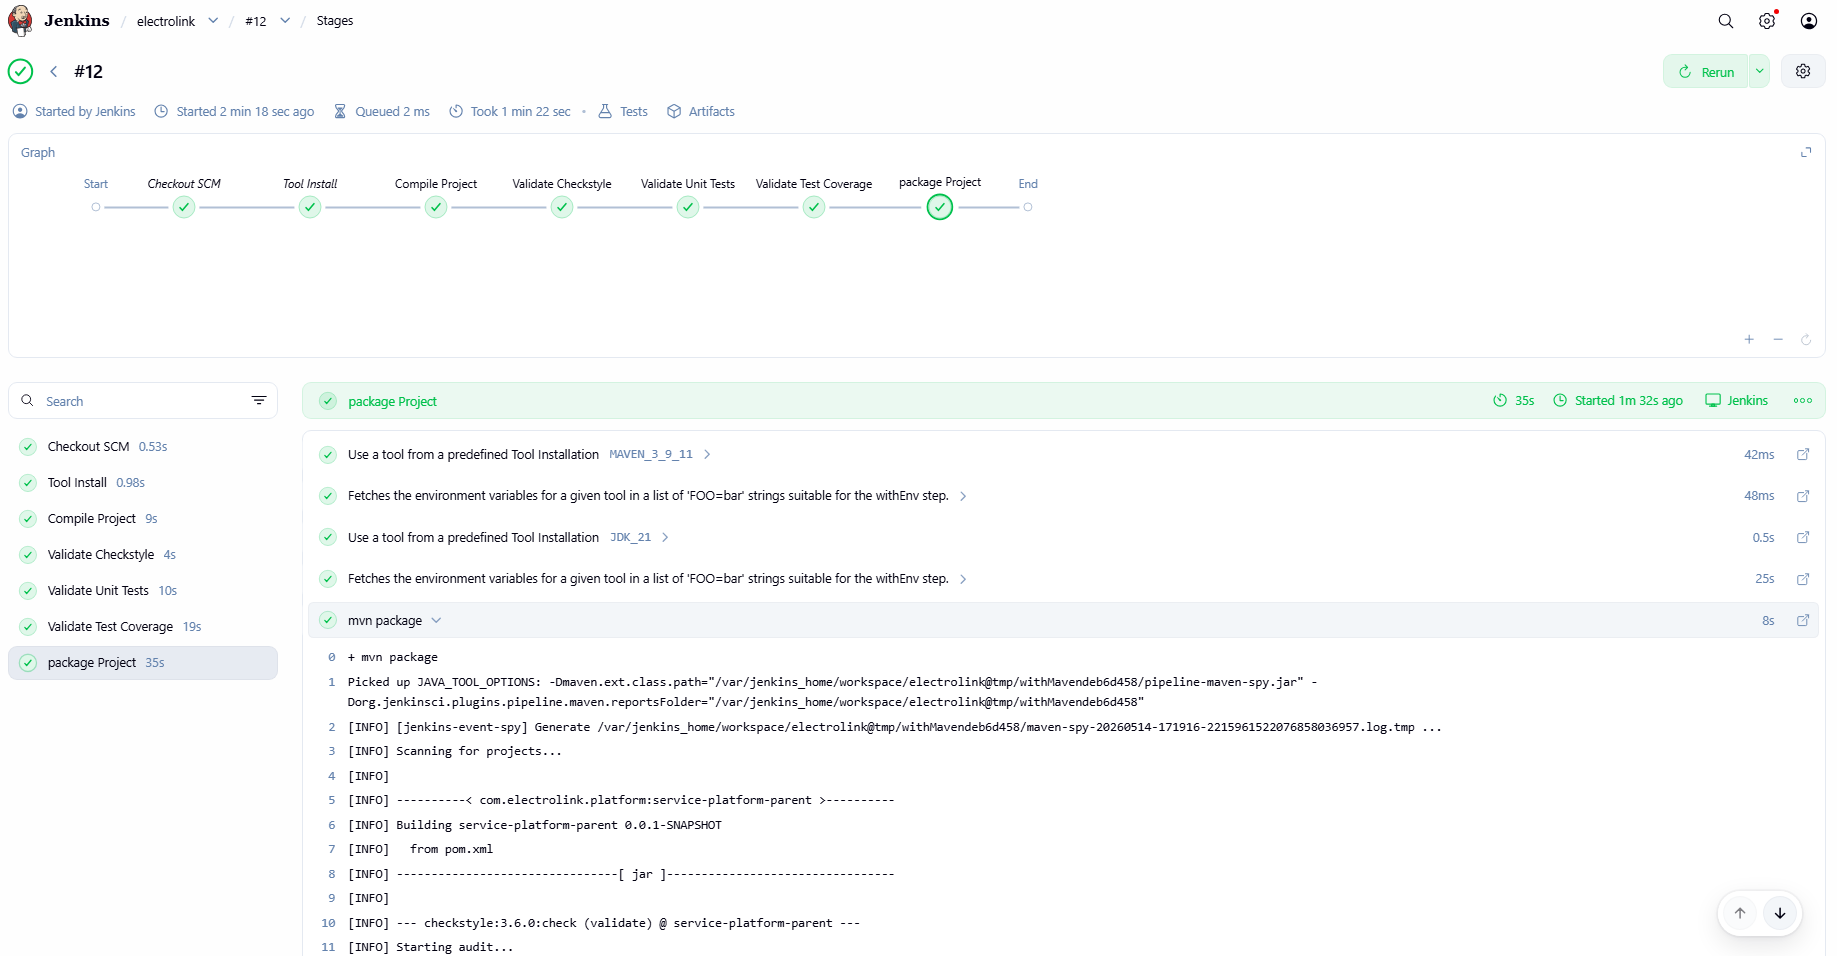
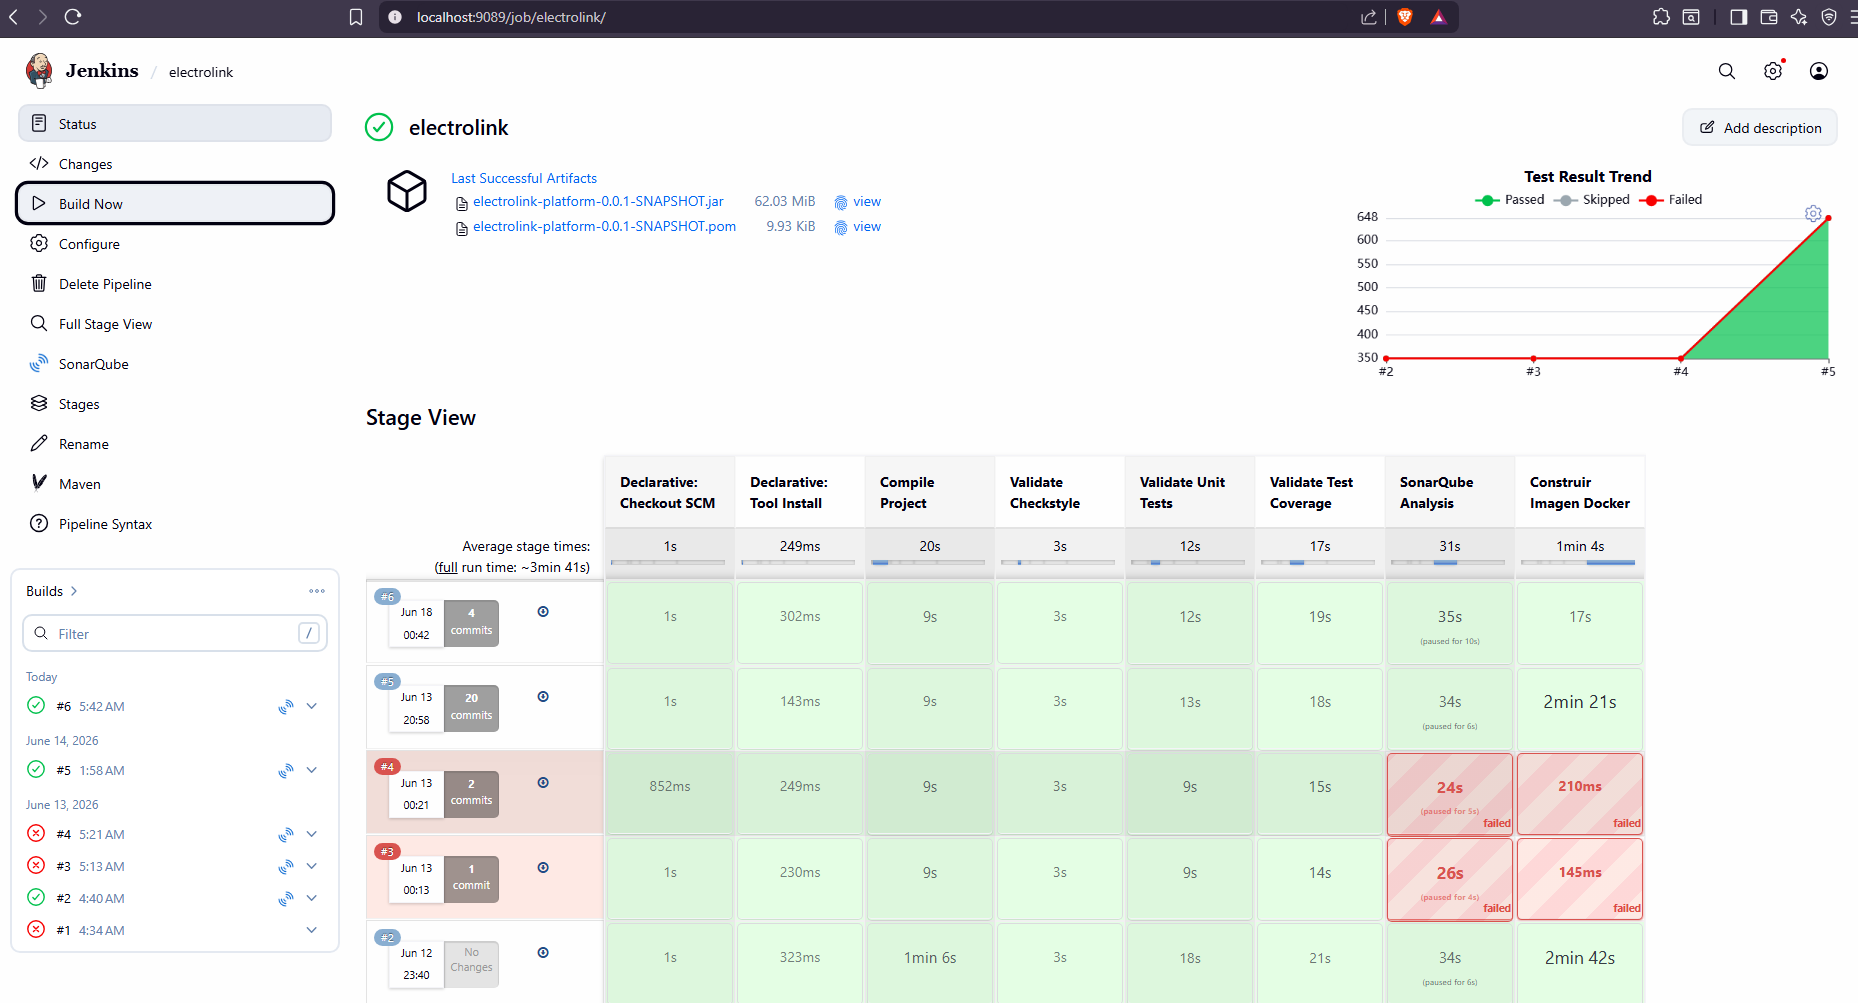
docs: update chapter 7

diff --git a/report/70-cap7-devops-practices.md b/report/70-cap7-devops-practices.md
@@ -11,6 +11,7 @@ En nuestro proceso, la CI está impulsada por el desarrollo basado en la metodol
 
 | Herramienta | Tipo | Descripción | Propósito en el Proceso |
 | :--- | :--- | :--- | :--- |
+| **Docker** | Contenedorización | Plataforma de contenedores que permite empaquetar la aplicación *backend* Java junto con sus dependencias en un entorno aislado. | Garantizar la **consistencia del entorno** entre desarrollo, pruebas y producción, facilitando la ejecución de pruebas en condiciones controladas. |
 | **JUnit 5** | Pruebas Unitarias (TDD) | *Framework* estándar de Java para escribir y ejecutar pruebas que validan el comportamiento de pequeñas unidades de código (métodos, clases). | Asegurar la **calidad interna y funcional** de los componentes del *backend* Java. |
 | **Mockito** | Simulaciones (TDD) | Librería de *mocking* que permite crear *mocks* de dependencias externas (bases de datos, servicios, etc.). | Facilitar las pruebas unitarias **aislando la lógica de negocio** para ejecutarlas de forma rápida y confiable. |
 | **Karate** | Pruebas de Integración y E2E (BDD) | *Framework* que combina la sintaxis BDD (Gherkin) con pruebas API/Web. Se usa en archivos `.feature` para validar la **integración de *endpoints*** y flujos de negocio. | **Validar el comportamiento del API REST** contra casos de uso definidos en lenguaje Gherkin. |
@@ -23,15 +24,40 @@ Nuestra *pipeline* de CI está integrada en **GitHub Actions** y sigue un flujo 
 
 | Fase del Pipeline | Descripción | Herramientas Involucradas | Output / Criterio de Éxito |
 | :--- | :--- | :--- | :--- |
-| **1. Check-out** | Obtiene el código fuente del repositorio (rama `main` o `feature`). | GitHub | Código disponible en el entorno de CI. |
-| **2. Static Analysis** | Ejecuta herramientas de análisis estático. | **CheckStyle** (Java)  | **Fallo si** se detectan violaciones graves de estilo o convenciones. |
-| **3. Build** | Compila la aplicación *backend* (Java) y genera artefactos. | Maven (`./mvnw clean install`) | **Fallo si** la compilación falla (errores de sintaxis o dependencias). |
-| **4. Unit & Integration Tests** | Ejecuta las suites de pruebas. | **JUnit 5** y **Mockito** (Unitarias), **Karate** (Integración/API) | **Fallo si** una prueba unitaria o de integración falla, deteniendo el flujo CI. |
-| **5. Containerization** | Construye la imagen de Docker para la aplicación *backend*. | **Docker** | Generación exitosa de la imagen del contenedor, lista para ser desplegada. |
-| **6. Pipeline Validation** | Se ejecuta un pipeline utilizando Jenkins para ejecutar la aplicación del Backend | **Fallo si** el despliegue a staging falla o si las pruebas de validación en staging no pasan. |
+| **1. Check-out** | Obtiene el código fuente del repositorio (rama `master` o `feature`). | GitHub | Código disponible en el entorno de CI. |
+| **2. Declarative Tool Install** | Instala las herramientas necesarias (JDK, Maven, Docker CLI). | GitHub Actions (actions/setup-java, actions/setup-docker) | Herramientas instaladas y configuradas correctamente. |
+| **3. Compile Project** | Compila el proyecto Java para verificar que no hay errores de sintaxis. | Maven (`./mvnw compile`) | **Fallo si** la compilación falla, deteniendo el pipeline. |
+| **4. Valid Checkstyle** | Ejecuta CheckStyle para validar el estilo de código. | CheckStyle (Java) | **Fallo si** se detectan violaciones graves de estilo o convenciones. |
+| **5. Valid Unit Tests** | Ejecuta las suites de pruebas. | **JUnit 5** y **Mockito** (Unitarias), **Karate** (Integración/API) | **Fallo si** una prueba unitaria o de integración falla, deteniendo el flujo CI. |
+| **6. Valid Test Coverage** | Analiza la cobertura de código para asegurar que se cumplen los umbrales mínimos. | JaCoCo (Java) | **Fallo si** la cobertura de código es inferior al 80%, deteniendo el pipeline. |
+| **7. SonarQube Analysis** | Analiza la calidad del código, detectando vulnerabilidades, bugs y code smells. | SonarQube Scanner | **Fallo si** se detectan vulnerabilidades críticas o bloqueantes, deteniendo el pipeline. |
+| **8. Containerization** | Construye la imagen de Docker para la aplicación *backend*. | **Docker** | Generación exitosa de la imagen del contenedor, lista para ser desplegada. |
 
+
+Aqui se presenta el docker file utilizado para la construcción de la imagen del contenedor, que asegura un entorno consistente para el desarrollo, pruebas y producción, se utiliza la imagen 3.9.6-eclipse-temurin-21-alpine como base para compilar el proyecto Java 21 y luego se expone el puerto 8080 para la aplicación RESTful API. 
+
+![Dockerfile](assets/img/cap7/ci/dockerfile.png)
+
+\
+
+Con esta configuración, el pipeline de CI no solo valida la calidad del código y la funcionalidad, sino que también prepara el artefacto (imagen Docker) para su despliegue en entornos posteriores (Staging y Producción), asegurando una transición fluida y confiable a lo largo del ciclo de vida del desarrollo.
+
+![Jenkinsfile](assets/img/cap7/ci/jenkinsfile.png)
+
+\
 
 ![Ejecución del Pipeline con Jenkins](assets/img/cap7/ci/jenkins-build.png)
+
+\
+
+![Aprobación de SonarQube en Jenkins](assets/img/cap7/ci/sonarqube-approval.png)
+
+\
+
+Aquí se presenta una captura de pantalla para validad que se valido la contenerización del proyecto en Docker Desktop, asegurando que la imagen se construyó correctamente y está lista para ser desplegada en el entorno de staging o producción.
+
+![Docker Desktop](assets/img/cap7/ci/docker-desktop.png)
+
 
 ---
 
